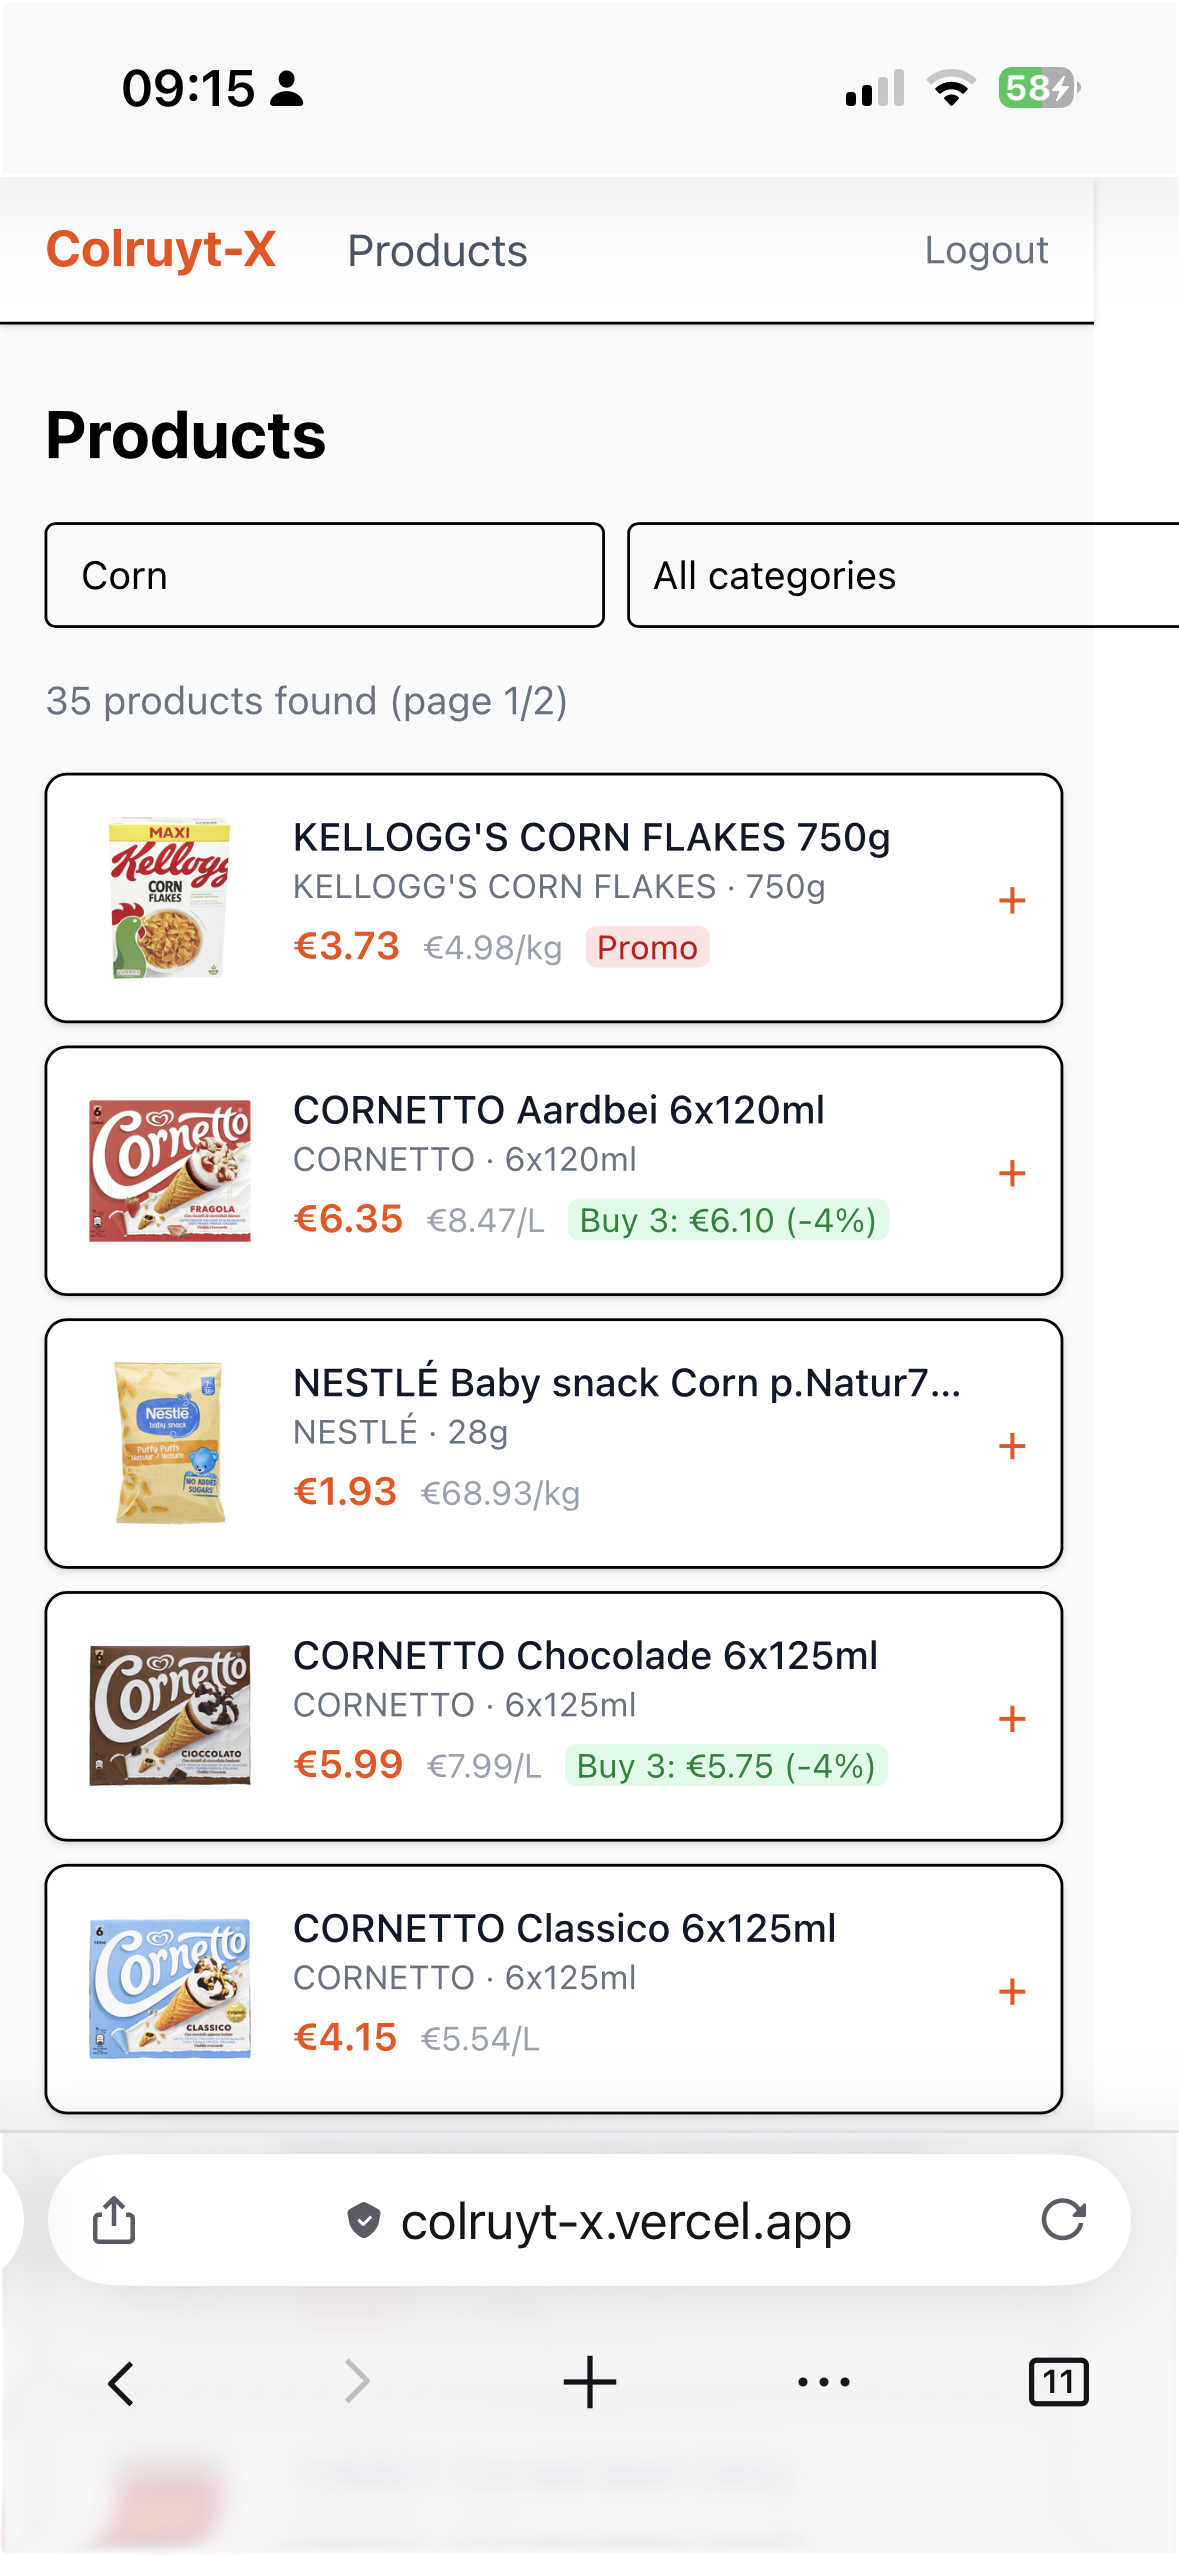
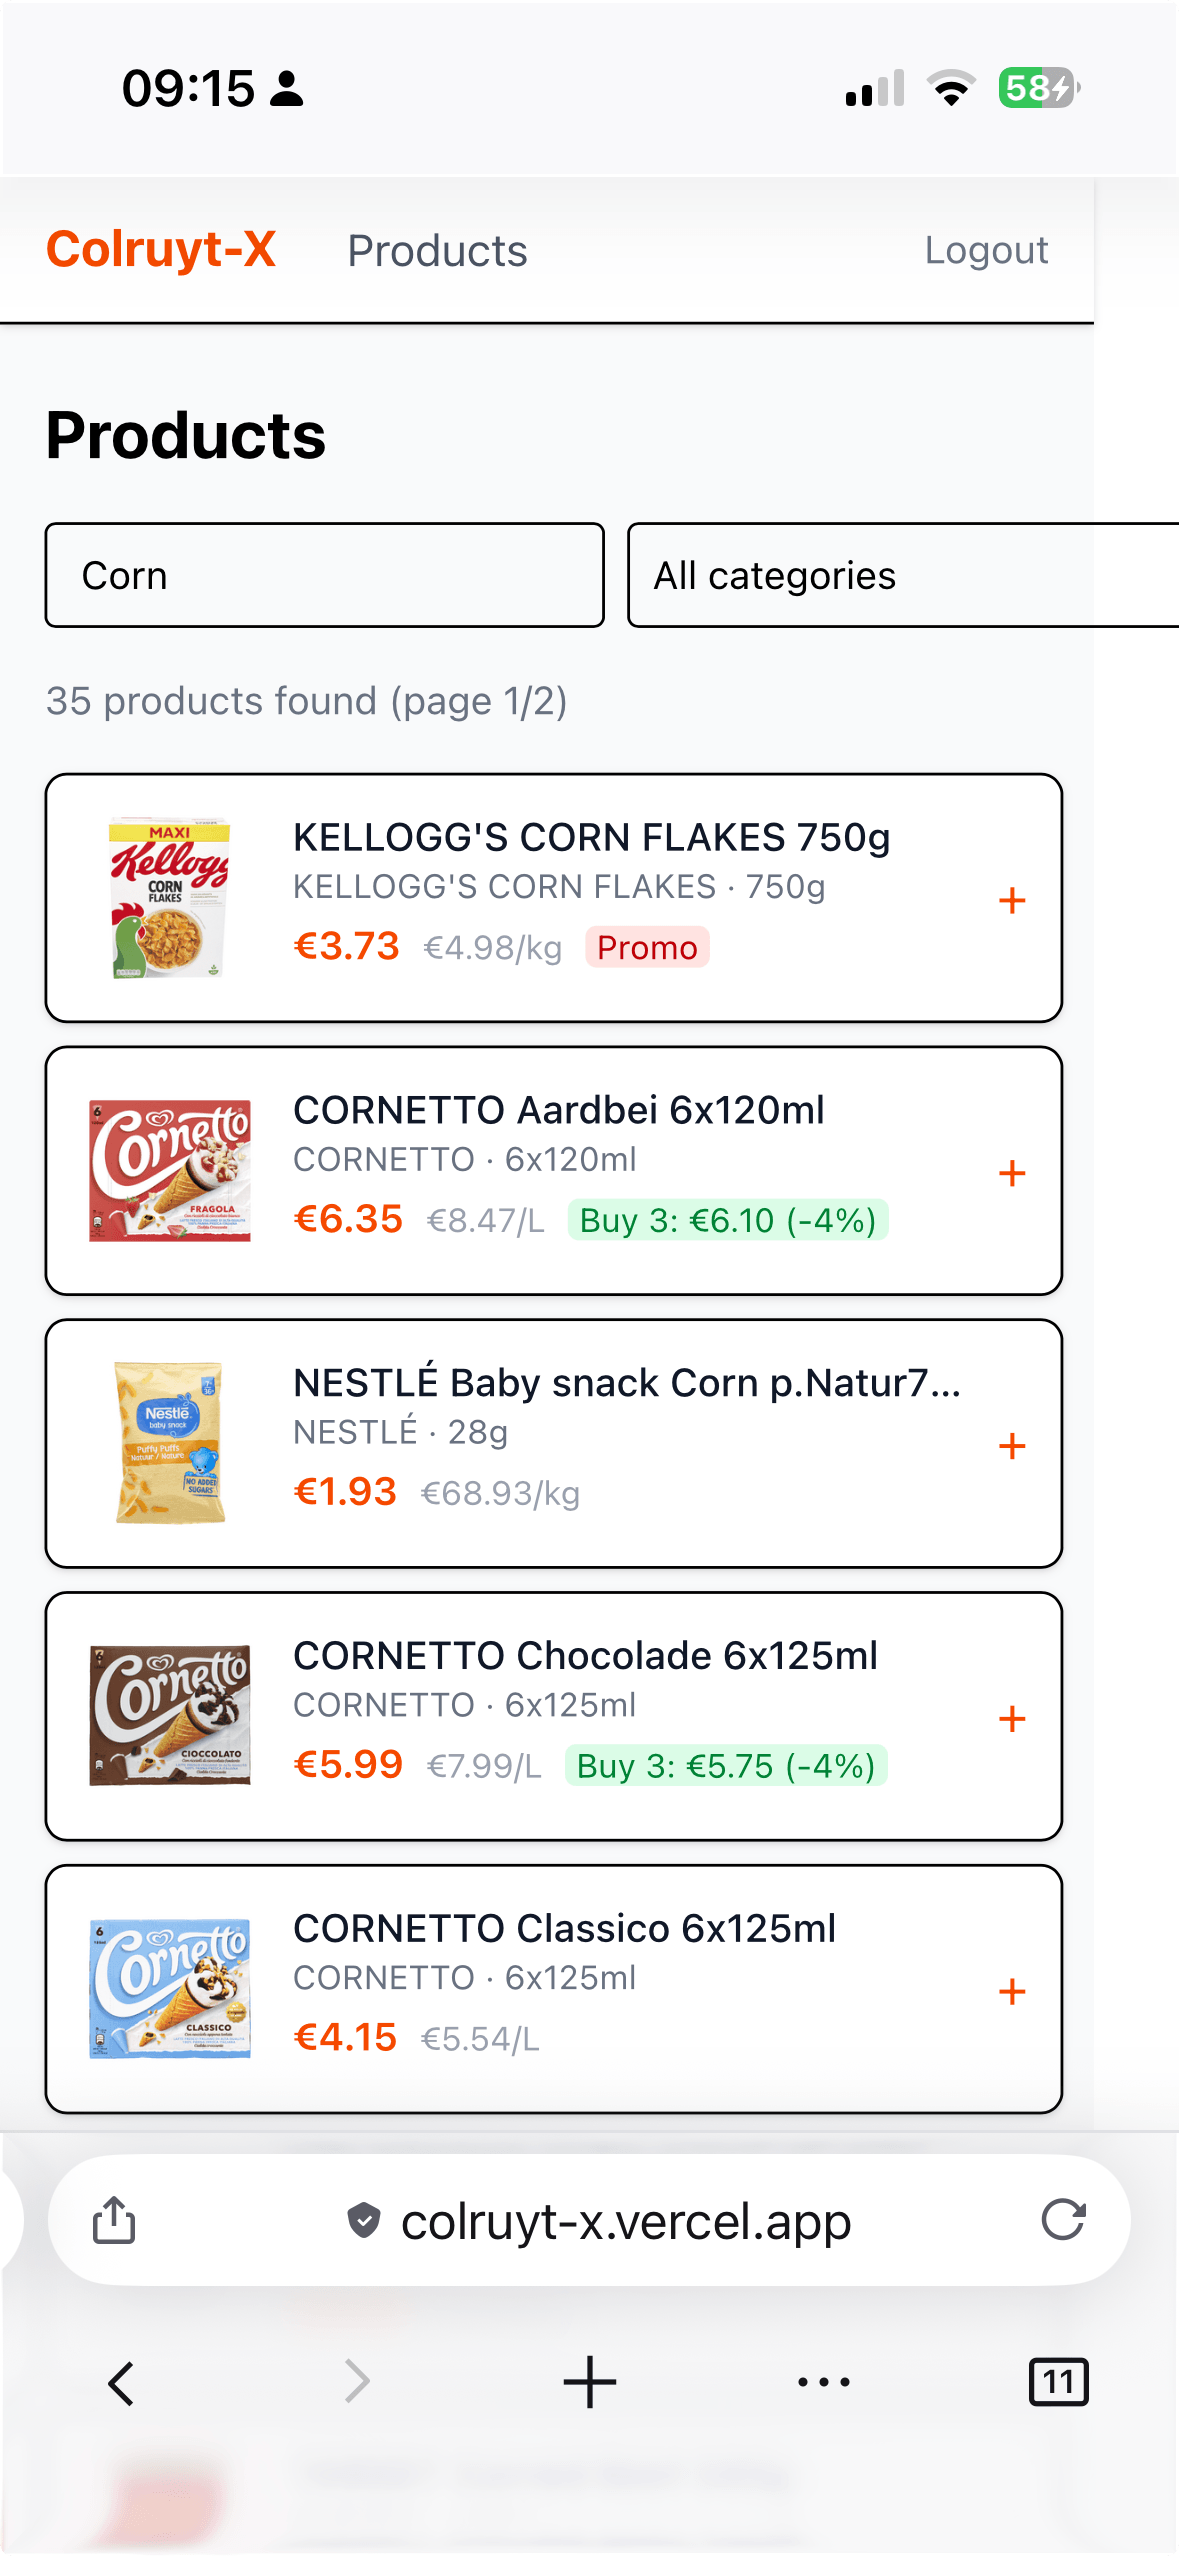
update readme

diff --git a/README.md b/README.md
@@ -5,8 +5,9 @@ Sale-notification service for two people, built on Colruyt product data. Maintai
 ## Screenshots
 
 <p align="center">
-  <img src="./docs/images/Screenshot%202026-06-09%20at%2009.12.14.png" width="49%" alt="image 1" />
-  <img src="./docs/images/Screenshot%202026-06-09%20at%2009.15.14.png" width="49%" alt="image 2" />
+  <img src="./docs/images/Screenshot%202026-06-09%20at%2009.12.14.png" width="25%" alt="image 1" />
+  <img src="./docs/images/Screenshot%202026-06-09%20at%2009.15.14.png" width="25%" alt="image 2" />
+  <img src="./docs/images/Screenshot%202026-06-10%20at%2010.06.28.png" width="25%" alt="image 3" />
 </p>
 
 ## How it works